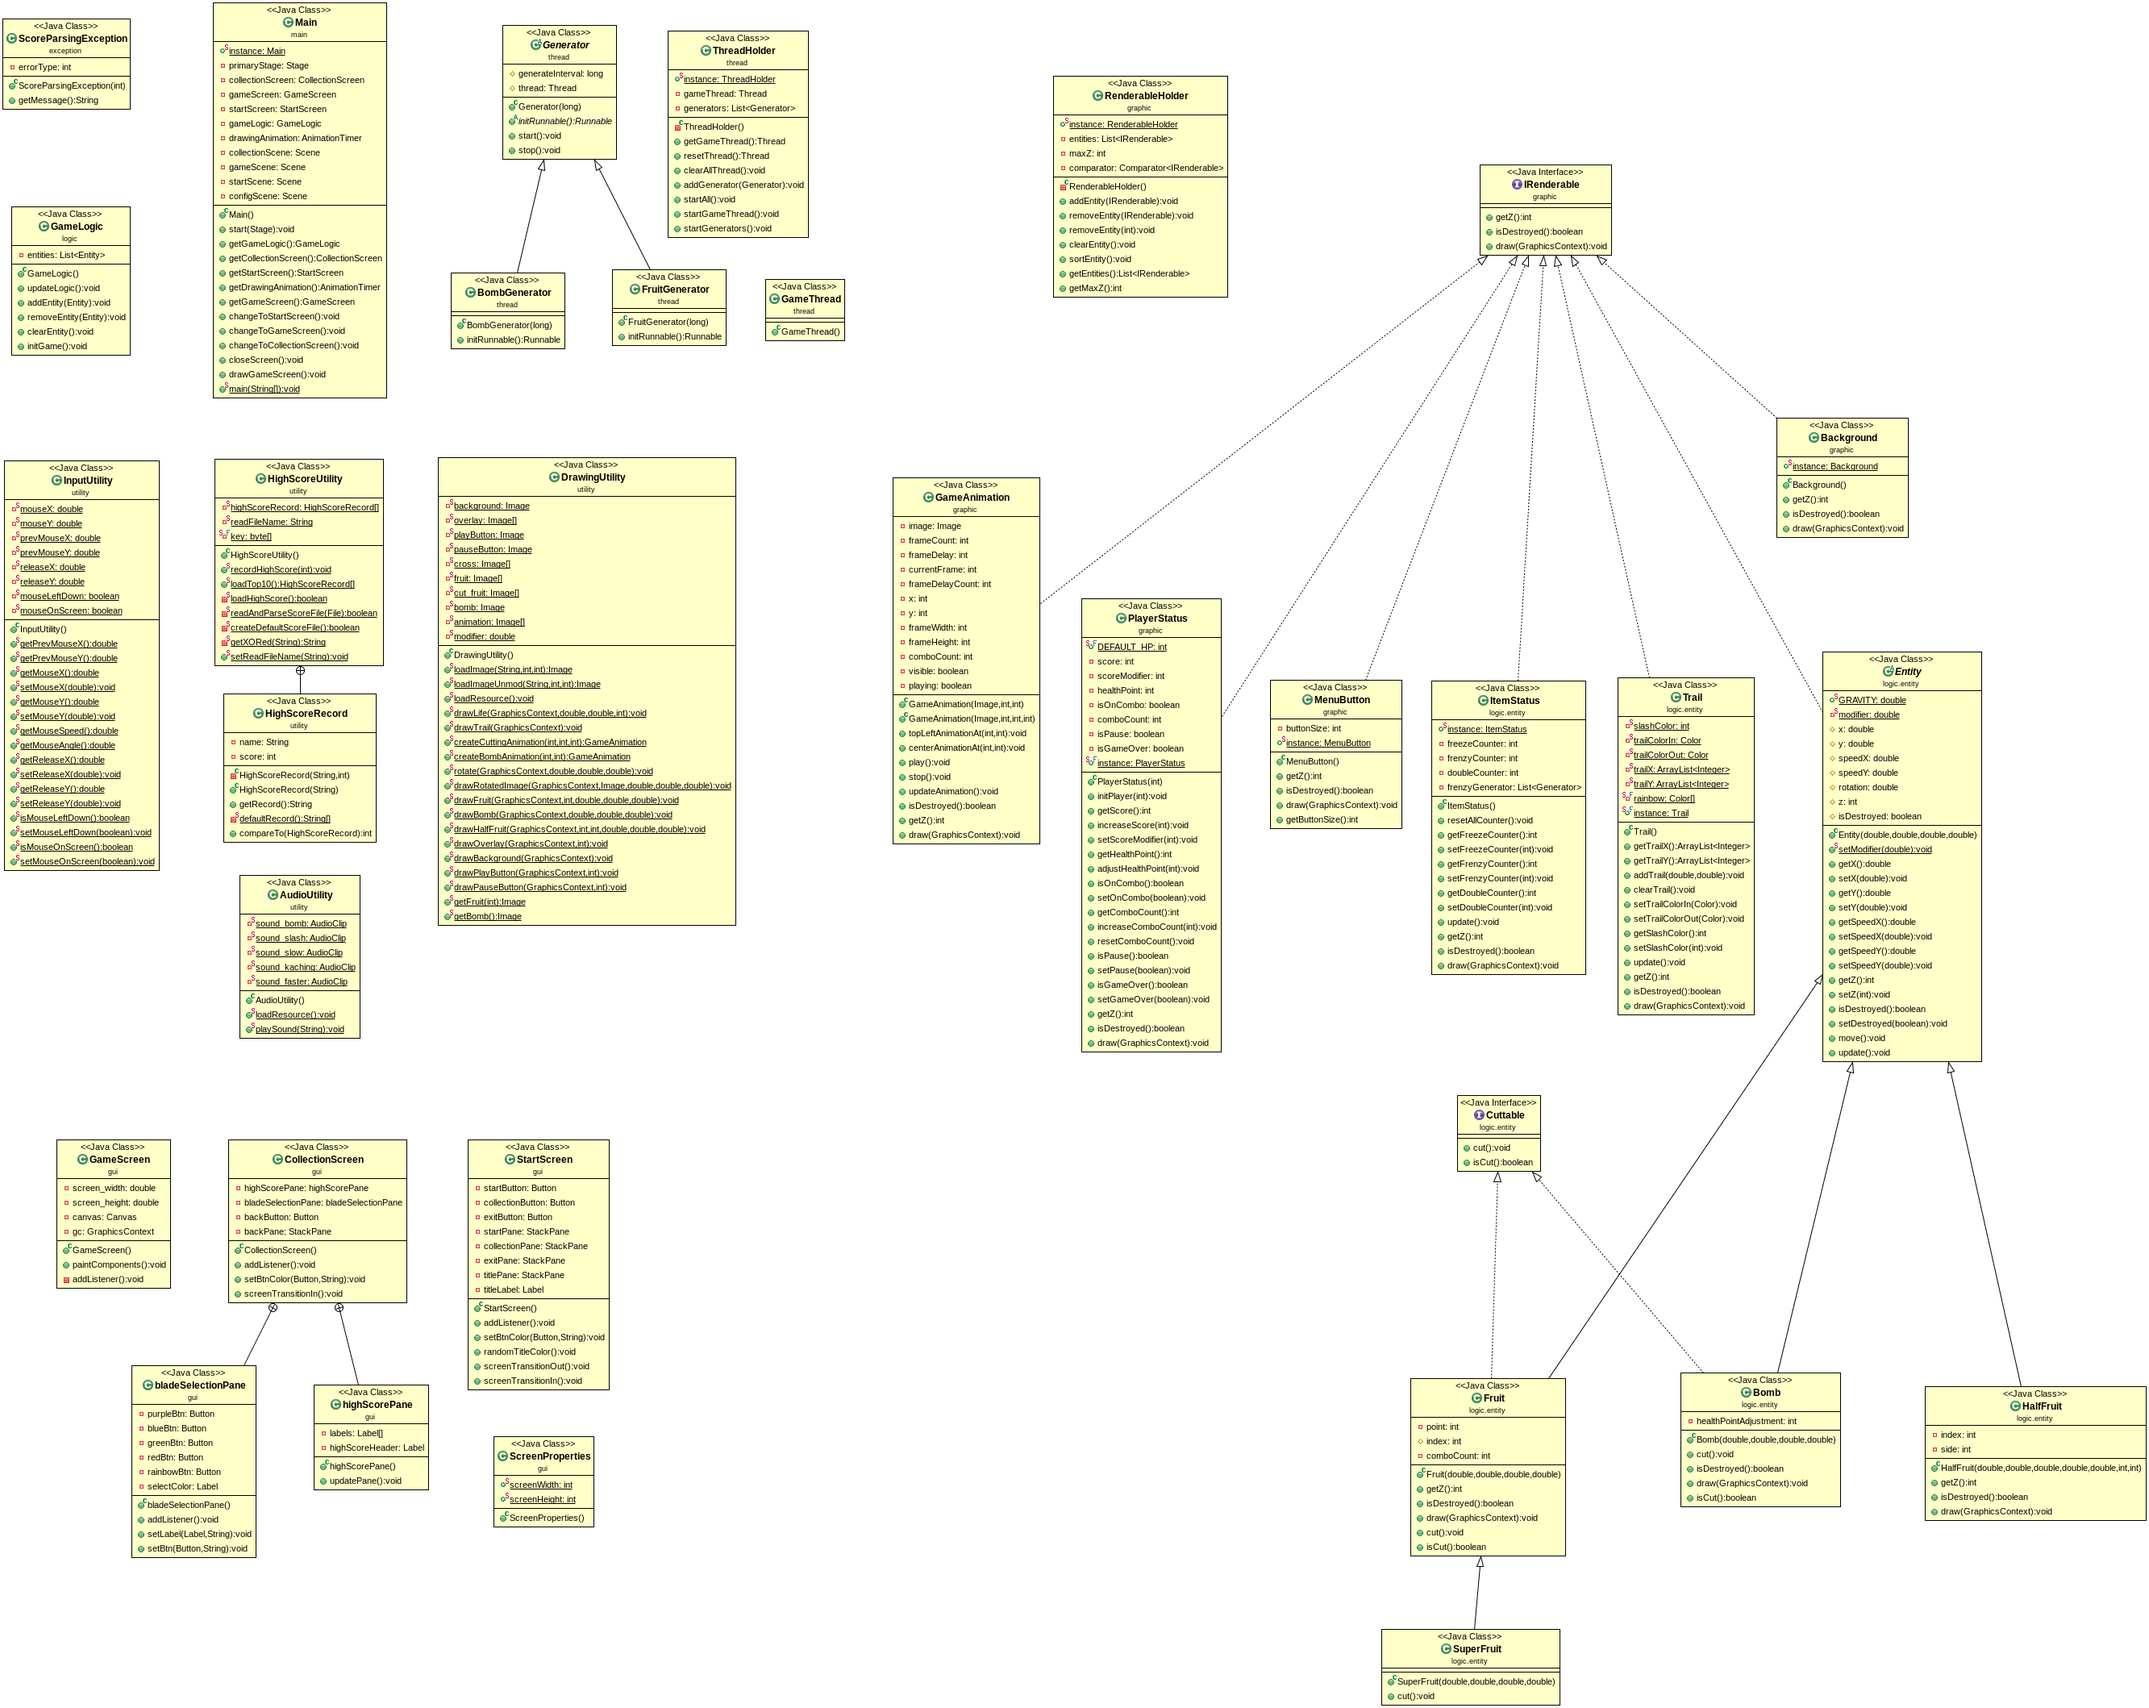
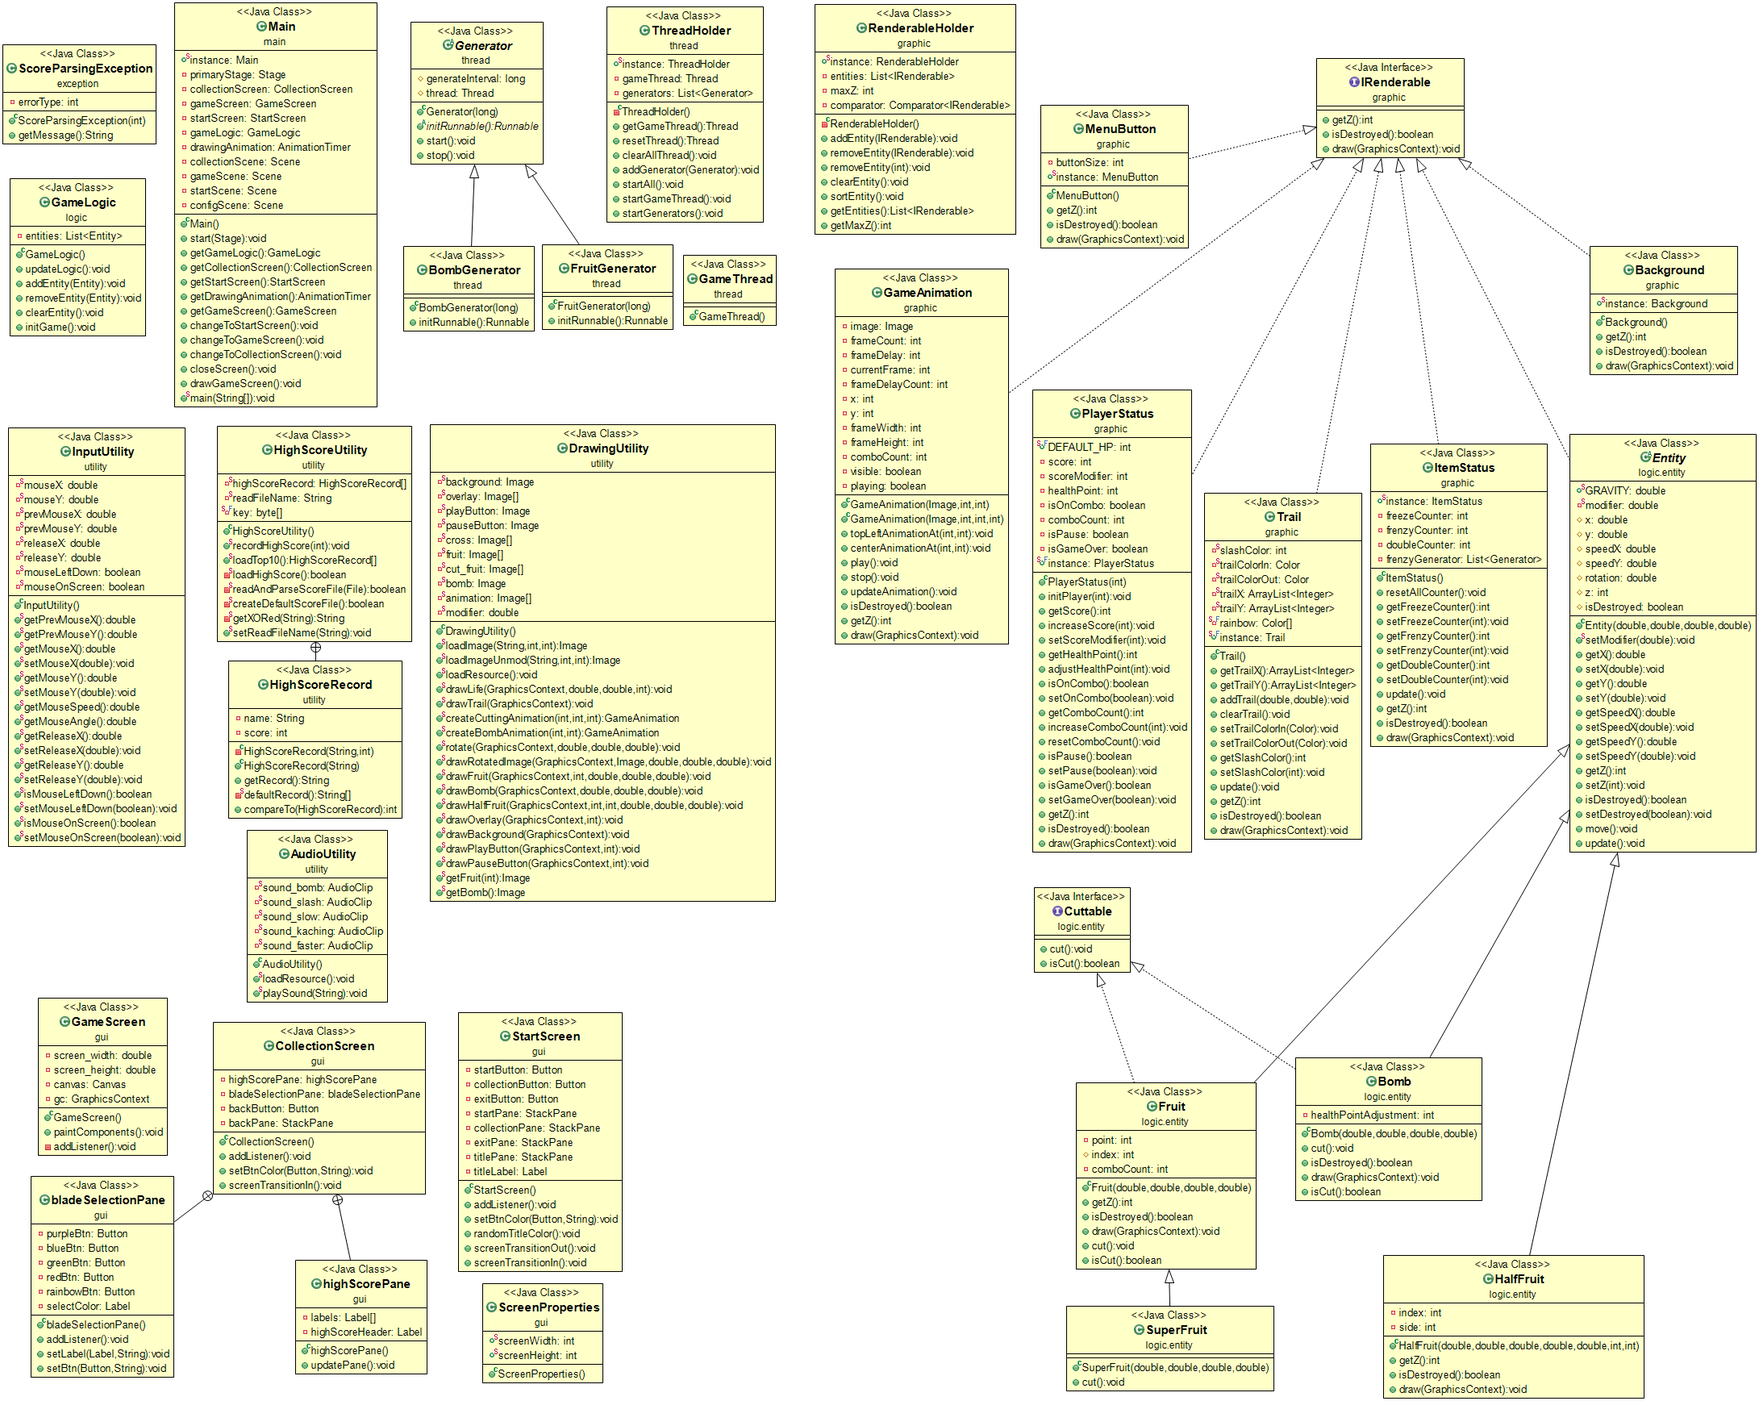
add final to screen property

diff --git a/src/gui/ScreenProperties.java b/src/gui/ScreenProperties.java
@@ -2,6 +2,6 @@ package gui;
 
 public class ScreenProperties {
 
-	public static int screenWidth = 1024,screenHeight = 720;
+	public static final int screenWidth = 1024,screenHeight = 720;
 
 }
